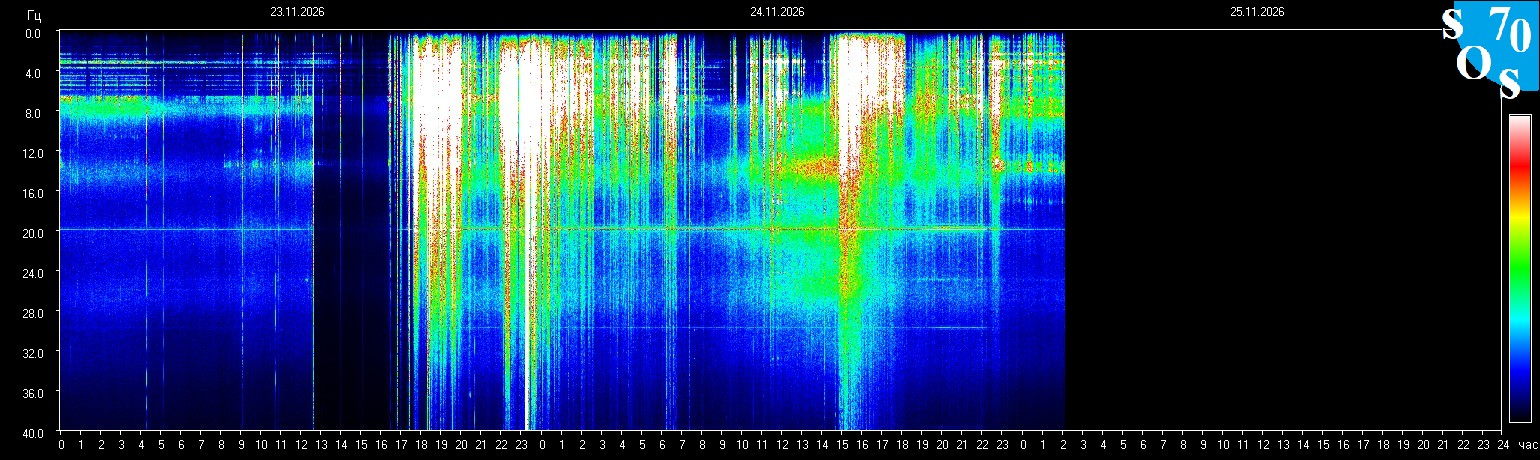
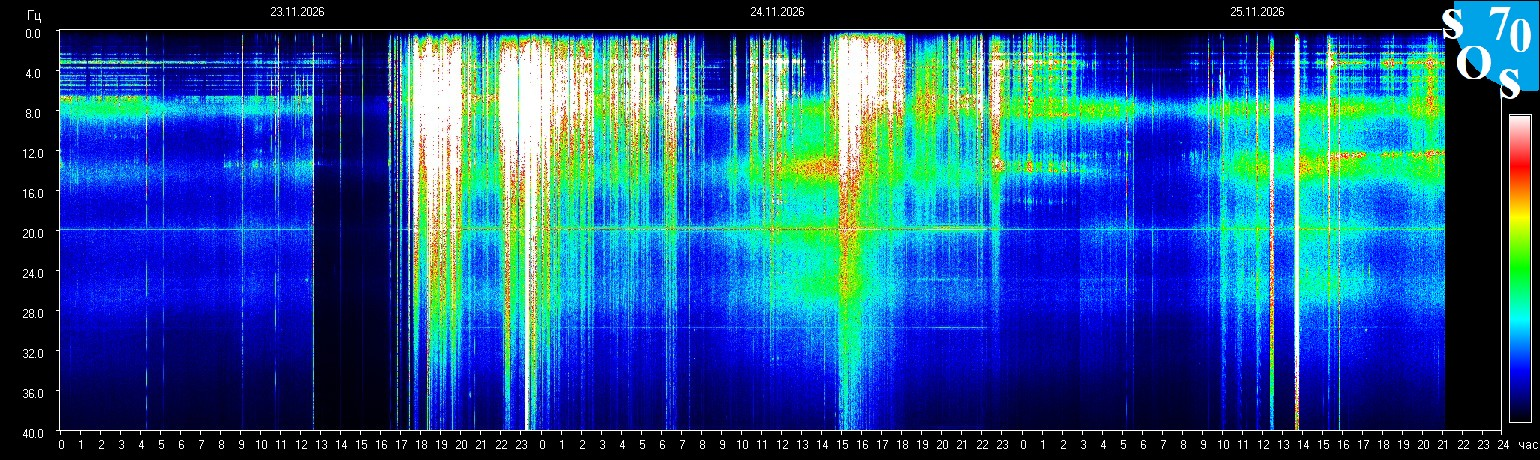
chore(bio-links): reorder subtitle text on /links and /indir page

Changed region(s): [[0.6857, 0.0609, 0.9662, 0.9435]]

diff --git a/src/app/indir/page.tsx b/src/app/indir/page.tsx
@@ -214,7 +214,7 @@ export default function IndirPage() {
           7LAYERS
         </h1>
         <p className="text-xs sm:text-sm text-[#A3A8B8] max-w-xs mt-1.5 mb-6 leading-relaxed">
-          Astroloji, Kabalistik 4 Alem, Human Design, Çakra Frekansları ve Canlı Schumann Rezonansı Platformu
+          Kadim Bilgiler, Çakra Frekansları, Human Design, Kabalistik 4 Alem, Astroloji ve Canlı Schumann Rezonansı Platformu
         </p>
 
         {/* Social Quick Icons Row */}
